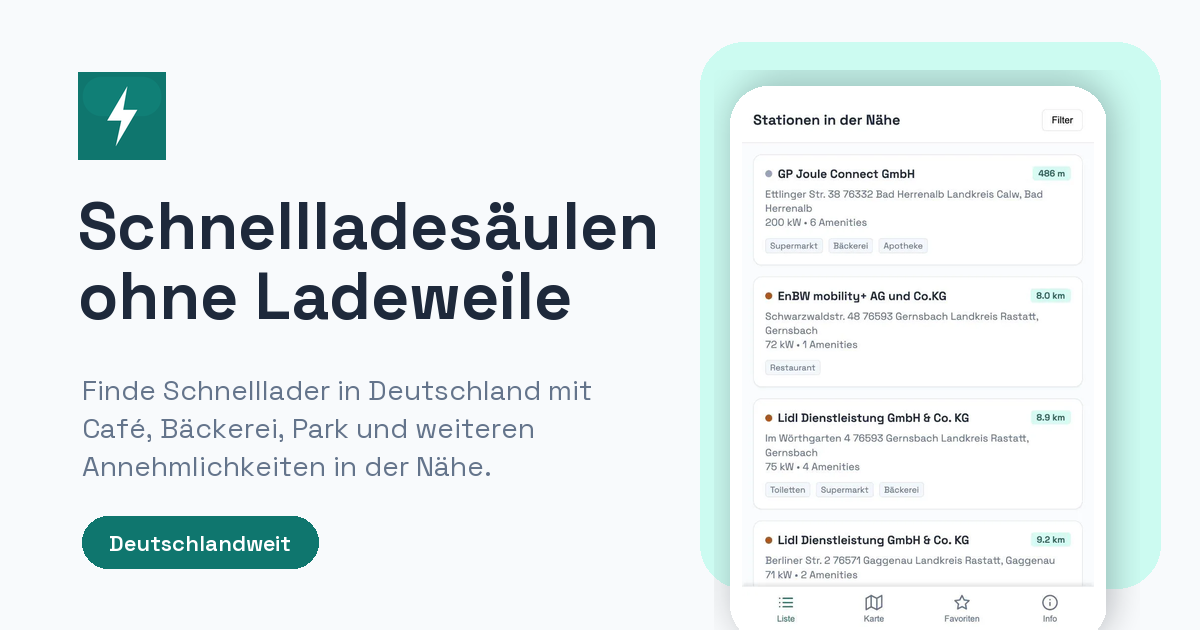
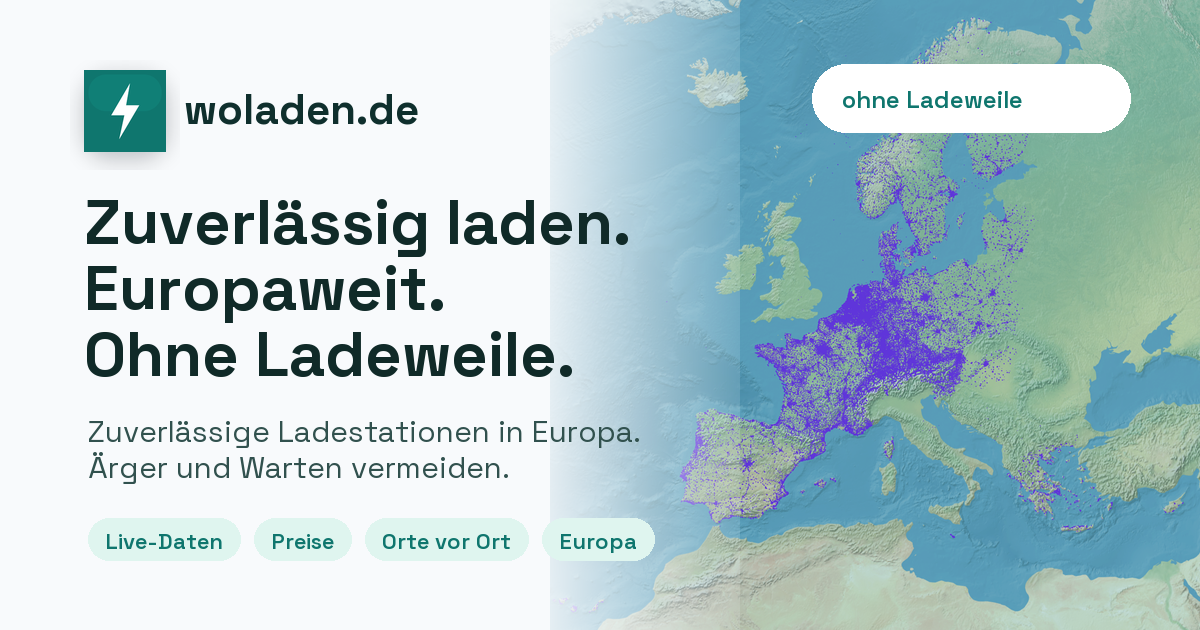
Refresh Europe marketing and social previews

diff --git a/web/management.html b/web/management.html
@@ -4,41 +4,41 @@
     <meta charset="UTF-8" />
     <meta name="viewport" content="width=device-width, initial-scale=1.0" />
     <title>
-      woladen.de | Zustand des öffentlichen Ladenetzes für eMobilität in Deutschland
+      woladen.de | Zustand öffentlicher Ladenetze für eMobilität in Europa
     </title>
     <meta
       name="description"
-      content="woladen.de Analyse auf Basis der AFIR-Daten aus der Mobilithek für öffentliche deutsche Ladestationen und deren Ladesäulen."
+      content="woladen.de Analyse auf Basis angebundener AFIR- und Live-Daten für öffentliche Ladestationen in Europa."
     />
     <link rel="canonical" href="https://woladen.de/management.html" />
     <meta property="og:type" content="website" />
     <meta
       property="og:title"
-      content="woladen.de | Zustand des öffentlichen Ladenetzes in Deutschland"
+      content="woladen.de | Zustand öffentlicher Ladenetze in Europa"
     />
     <meta
       property="og:description"
-      content="woladen.de Analyse auf Basis der AFIR-Daten aus der Mobilithek für öffentliche deutsche Ladestationen und deren Ladesäulen."
+      content="woladen.de Analyse auf Basis angebundener AFIR- und Live-Daten für öffentliche Ladestationen in Europa."
     />
     <meta property="og:url" content="https://woladen.de/management.html" />
     <meta property="og:site_name" content="woladen.de" />
     <meta property="og:locale" content="de_DE" />
     <meta
       property="og:image"
-      content="https://woladen.de/img/social-card-home.png?v=20260411"
+      content="https://woladen.de/img/social-card-home.png?v=20260620-eu"
     />
     <meta name="twitter:card" content="summary_large_image" />
     <meta
       name="twitter:title"
-      content="woladen.de | Zustand des öffentlichen Ladenetzes in Deutschland"
+      content="woladen.de | Zustand öffentlicher Ladenetze in Europa"
     />
     <meta
       name="twitter:description"
-      content="woladen.de Analyse auf Basis der AFIR-Daten aus der Mobilithek für öffentliche deutsche Ladestationen und deren Ladesäulen."
+      content="woladen.de Analyse auf Basis angebundener AFIR- und Live-Daten für öffentliche Ladestationen in Europa."
     />
     <meta
       name="twitter:image"
-      content="https://woladen.de/img/social-card-home.png?v=20260411"
+      content="https://woladen.de/img/social-card-home.png?v=20260620-eu"
     />
     <link rel="icon" href="/favicon.ico?v=20260411" sizes="any" />
     <link
@@ -59,12 +59,12 @@
       href="https://fonts.googleapis.com/css2?family=Manrope:wght@400;600;700;800&display=swap"
       rel="stylesheet"
     />
-    <link rel="stylesheet" href="./styles.css?v=20260619-easter-egg-port5" />
+    <link rel="stylesheet" href="./styles.css?v=20260620-eu-i18n4" />
     <script
       src="https://cdn.jsdelivr.net/npm/chart.js@4.4.1/dist/chart.umd.min.js"
       defer
     ></script>
-    <script type="module" src="./management.mjs?v=20260606a"></script>
+    <script type="module" src="./management.mjs?v=20260620-eu-i18n4"></script>
   </head>
   <body class="management-page">
     <main class="management-shell">
@@ -72,9 +72,9 @@
         <p class="management-kicker">
           <a href="https://woladen.de">woladen.de</a> Tagesauswertung
         </p>
-        <h1>eMobilität in Deutschland - Zustand öffentlicher Ladestationen</h1>
+        <h1>eMobilität in Europa - Zustand öffentlicher Ladestationen</h1>
         <p id="management-subtitle" class="management-subtitle">
-          Störungen und Auslastung der öffentlichen Ladestation und deren Ladesäulen in Deutschland am
+          Störungen und Auslastung öffentlicher Ladestationen in angebundenen europäischen Ländern am
           Donnerstag 17.04.2026
         </p>
       </header>
@@ -279,8 +279,8 @@
         </div>
         <ul>
           <li>
-            Die Kennzahlen oben betrachten alle Stationen mit AFIR-Daten in
-            Deutschland. In den Top-Listen führen Stationsnamen, wenn verfügbar,
+            Die Kennzahlen oben betrachten alle Stationen mit angebundenen
+            AFIR- und Live-Daten. In den Top-Listen führen Stationsnamen, wenn verfügbar,
             direkt zu woladen.de.
           </li>
           <li>
@@ -301,8 +301,8 @@
             Schnellladestation-IDs ohne Tagesbeobachtung.
           </li>
           <li>
-            Grundlage sind tägliche AFIR-Datensätze der Mobilithek, hier für
-            woladen.de gespiegelt.
+            Grundlage sind tägliche AFIR- und Live-Datensätze aus den
+            angebundenen Quellen, hier für woladen.de gespiegelt.
           </li>
         </ul>
       </section>

diff --git a/scripts/generate_social_card.py b/scripts/generate_social_card.py
@@ -1,0 +1,104 @@
+#!/usr/bin/env python3
+"""Generate the woladen.de social preview card."""
+
+from __future__ import annotations
+
+from pathlib import Path
+
+from PIL import Image, ImageDraw, ImageFilter, ImageFont
+
+ROOT = Path(__file__).resolve().parents[1]
+IMG_DIR = ROOT / "web" / "img"
+OUTPUT_PATH = IMG_DIR / "social-card-home.png"
+MAP_PATH = IMG_DIR / "chargers_naturalearth_purple_laea_baden_baden.png"
+ICON_PATH = IMG_DIR / "touch-icon.png"
+FONT_REGULAR = IMG_DIR / "SpaceGrotesk-Regular.ttf"
+FONT_BOLD = IMG_DIR / "SpaceGrotesk-Bold.ttf"
+FONT_SEMIBOLD = IMG_DIR / "SpaceGrotesk-SemiBold.ttf"
+
+
+def font(path: Path, size: int) -> ImageFont.FreeTypeFont:
+    return ImageFont.truetype(str(path), size)
+
+
+def fit_crop(image: Image.Image, size: tuple[int, int]) -> Image.Image:
+    target_w, target_h = size
+    scale = max(target_w / image.width, target_h / image.height)
+    resized = image.resize(
+        (round(image.width * scale), round(image.height * scale)),
+        Image.Resampling.LANCZOS,
+    )
+    left = max(0, (resized.width - target_w) // 2)
+    top = max(0, (resized.height - target_h) // 2)
+    return resized.crop((left, top, left + target_w, top + target_h))
+
+
+def rounded_rect(draw: ImageDraw.ImageDraw, box: tuple[int, int, int, int], radius: int, fill: str) -> None:
+    draw.rounded_rectangle(box, radius=radius, fill=fill)
+
+
+def draw_chip(draw: ImageDraw.ImageDraw, text: str, x: int, y: int, chip_font: ImageFont.FreeTypeFont) -> int:
+    bbox = draw.textbbox((0, 0), text, font=chip_font)
+    width = bbox[2] - bbox[0] + 34
+    rounded_rect(draw, (x, y, x + width, y + 42), 21, "#dff5ef")
+    draw.text((x + 17, y + 9), text, fill="#0f766e", font=chip_font)
+    return x + width + 14
+
+
+def main() -> None:
+    canvas = Image.new("RGB", (1200, 630), "#f8fafc")
+    draw = ImageDraw.Draw(canvas)
+
+    map_image = Image.open(MAP_PATH).convert("RGBA")
+    map_crop = fit_crop(map_image, (650, 630))
+    map_layer = Image.new("RGBA", (650, 630), "#f8fafc")
+    map_layer.alpha_composite(map_crop)
+    tint = Image.new("RGBA", map_layer.size, (15, 118, 110, 64))
+    map_layer = Image.alpha_composite(map_layer, tint)
+    canvas.paste(map_layer.convert("RGB"), (550, 0))
+
+    fade = Image.new("RGBA", (1200, 630), 0)
+    fade_draw = ImageDraw.Draw(fade)
+    for index in range(220):
+        alpha = max(0, 255 - index)
+        fade_draw.line((520 + index, 0, 520 + index, 630), fill=(248, 250, 252, alpha), width=1)
+    canvas = Image.alpha_composite(canvas.convert("RGBA"), fade)
+    draw = ImageDraw.Draw(canvas)
+
+    icon = Image.open(ICON_PATH).convert("RGBA").resize((82, 82), Image.Resampling.LANCZOS)
+    shadow = Image.new("RGBA", (110, 110), 0)
+    ImageDraw.Draw(shadow).rounded_rectangle((14, 16, 96, 98), radius=24, fill=(15, 23, 42, 62))
+    shadow = shadow.filter(ImageFilter.GaussianBlur(10))
+    canvas.alpha_composite(shadow, (70, 60))
+    canvas.alpha_composite(icon, (84, 70))
+
+    brand_font = font(FONT_BOLD, 42)
+    headline_font = font(FONT_BOLD, 63)
+    sub_font = font(FONT_REGULAR, 30)
+    chip_font = font(FONT_SEMIBOLD, 22)
+    small_font = font(FONT_SEMIBOLD, 24)
+
+    draw.text((184, 82), "woladen.de", fill="#0f2f2d", font=brand_font)
+    draw.text((84, 182), "Zuverlässig laden.\nEuropaweit.\nOhne Ladeweile.", fill="#102a28", font=headline_font, spacing=4)
+    draw.text(
+        (88, 412),
+        "Zuverlässige Ladestationen in Europa.\nÄrger und Warten vermeiden.",
+        fill="#31514e",
+        font=sub_font,
+        spacing=6,
+    )
+
+    x = 88
+    for chip in ("Live-Daten", "Preise", "Orte vor Ort", "Europa"):
+        x = draw_chip(draw, chip, x, 518, chip_font)
+
+    rounded_rect(draw, (812, 64, 1130, 132), 34, "#ffffff")
+    draw.text((842, 84), "ohne Ladeweile", fill="#0f766e", font=small_font)
+
+    OUTPUT_PATH.parent.mkdir(parents=True, exist_ok=True)
+    canvas.convert("RGB").save(OUTPUT_PATH, quality=92, optimize=True)
+    print(OUTPUT_PATH)
+
+
+if __name__ == "__main__":
+    main()

diff --git a/scripts/generate_android_play_store_assets.py b/scripts/generate_android_play_store_assets.py
@@ -88,16 +88,16 @@ def generate_feature_graphic() -> Path:
     chip_font = load_font(22, bold=True)
 
     draw.text((82, 92), "Woladen", font=title_font, fill="#0e2e2c")
-    draw.text((82, 164), "Schnellladen ohne Ladeweile", font=subtitle_font, fill="#163d3a")
+    draw.text((82, 164), "Zuverlässig laden. Europaweit.", font=subtitle_font, fill="#163d3a")
     draw.text(
         (82, 208),
-        "Deutschlands Schnelllader mit Karte,\nFiltern und Aufenthaltsqualität.",
+        "Ladestationen ohne Ladeweile:\nÄrger und Warten vermeiden.",
         font=subtitle_font,
         fill="#163d3a",
         spacing=8,
     )
 
-    chips = ["50+ kW", "Karte", "Favoriten", "OSM-Annehmlichkeiten"]
+    chips = ["Europa", "Live-Daten", "Preise", "Orte vor Ort"]
     x = 268
     y = 308
     for chip in chips:
@@ -146,17 +146,17 @@ def write_metadata() -> None:
     PLAY_METADATA_DIR.mkdir(parents=True, exist_ok=True)
     METADATA_DIR.mkdir(parents=True, exist_ok=True)
     title = "Woladen"
-    short_description = "Deutschlands Schnelllader mit Karte, Filtern und Tipps gegen Ladeweile"
-    full_description = """Woladen zeigt dir Schnellladesäulen in Deutschland und hilft dir, gute Ladepausen zu finden. So findest du nicht nur den passenden Schnelllader, sondern auch Orte, an denen sich das Warten lohnt.
+    short_description = "Zuverlässige Ladestationen in Europa ohne Ladeweile"
+    full_description = """Woladen zeigt dir Ladestationen in Europa und hilft dir, gute Ladepausen zu finden. So findest du nicht nur den passenden Ladepunkt, sondern auch Orte, an denen sich das Warten lohnt.
 
 Mit Woladen kannst du:
-- Schnelllader ab 50 kW in ganz Deutschland finden
+- zuverlässige Ladestationen in vielen europäischen Ländern finden
 - Ladepunkte in Karte und Liste durchsuchen
 - nach Anbieter und Annehmlichkeiten filtern
 - Favoriten lokal auf deinem Gerät speichern
 - deinen Standort optional nutzen, um Ladepunkte in der Nähe schneller zu sehen
 
-Woladen kombiniert das offizielle Ladesäulenregister der Bundesnetzagentur mit Informationen aus OpenStreetMap. Dadurch siehst du zu vielen Standorten direkt, was es in der Umgebung gibt, zum Beispiel Gastronomie, Einkauf, Toiletten oder weitere nützliche Stopps.
+Woladen kombiniert offene europäische Ladeinfrastruktur-Daten, Live-Daten wo verfügbar und Informationen aus OpenStreetMap. Dadurch siehst du zu vielen Standorten direkt, was es in der Umgebung gibt, zum Beispiel Gastronomie, Einkauf, Toiletten oder weitere nützliche Stopps.
 
 Die App ist bewusst schlank gehalten:
 - kein Nutzerkonto
